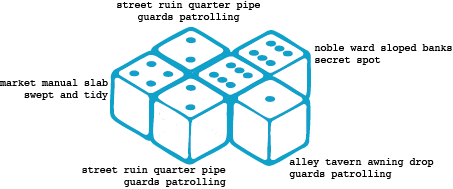
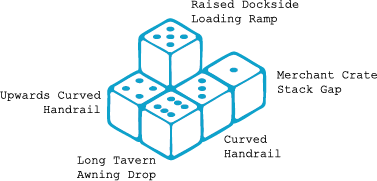
Add files via upload

Changed region(s): [[0.0, 0.0, 1.0, 1.0]]

diff --git a/index.html b/index.html
@@ -355,6 +355,23 @@
             gap: 10px;
         }
 
+        .ftype {
+            display: inline-block;
+            font-size: 9px;
+            font-weight: bold;
+            letter-spacing: 0.5px;
+            padding: 1px 5px;
+            border-radius: 3px;
+            white-space: nowrap;
+        }
+
+        .ftype.gap        { background: #fcc1d0; color: #8a1549; }
+        .ftype.grind      { background: #dbedf7; color: #0077a0; }
+        .ftype.nothing    { background: #dff2e1; color: #2a7a3a; }
+        .ftype.transition { background: #f5f0cc; color: #7a6010; }
+        .ftype.elevated   { background: #ede0f7; color: #6a1aaa; }
+        .ftype.longline   { background: #fde8d0; color: #a04010; }
+
         .note {
             font-size: 10px;
             color: #666;
@@ -736,7 +753,7 @@
 
             <div class="card yellow" id="dotricks">
                 <h2>Doing Tricks</h2>
-                <p>Before rolling, <strong>call your trick</strong>. State whether it's nollie or switch, a flip trick, grind, or combo. This determines which stats you use. Describe how you're performing the trick and on which feature.</p>
+                <p>Before rolling, <strong>call your trick</strong>. State whether it's fakie or switch, a flip trick, grind, or combo. This determines which stats you use. Describe how you're performing the trick and on which feature.</p>
                 <p>All tricks <strong>start with a single base d6</strong>, then add your stat dice.</p>
                 <ol>
                     <li><strong>Roll your dice pool.</strong> Start with a single d6. Add your stat dice from there.
@@ -774,7 +791,7 @@
                 <div class="die 1"><svg viewBox="0 0 18 18">
                         <circle cx="9" cy="9" r="1.8" class="pd" />
                     </svg></div> is a modifier die. Placed at the start it means <em>switch</em>. Placed at the
-                end it means <em>nollie</em>.</p>
+                end it means <em>fakie</em>.</p>
 
                 <div class="pre">
                     <p>
@@ -831,7 +848,7 @@
                             <circle cx="9" cy="9" r="1.8" class="pd" />
                         </svg>
                     </div>
-                    - nollie kickflip
+                    - fakie kickflip
                     </p>
                 </div>
 
@@ -1100,37 +1117,42 @@
                     streets and alleys. A spot is made up of a number of features you can do tricks on.</p>
 
                 <h3>Building a Spot</h3>
-                <p>Roll 3d6 +1 for each player and push them together on the table. Each die value
-                    determines the type of area
-                    and where it can sit.</p>
+                <p>Roll 3d6 +1 for each player and push them together on the table. Each die determines where it can sit and how it's connected to the features around it.</p>
                 <table>
                     <tr>
                         <th>Die</th>
-                        <th>Area Type</th>
+                        <th>Feature Type</th>
+                        <th>Note</th>
                     </tr>
                     <tr>
                         <td>1</td>
-                        <td>Back Alley - touches no more than 1 other area</td>
+                        <td><span class="ftype gap">Gap</span></td>
+                        <td>Touches no more than 1 other area</td>
                     </tr>
                     <tr>
                         <td>2</td>
-                        <td>Street Block - touches no more than 2 areas</td>
+                        <td><span class="ftype grind">Grind</span></td>
+                        <td>Touches no more than 2 areas</td>
                     </tr>
                     <tr>
                         <td>3</td>
-                        <td>Ward Junction - touches no more than 3 areas</td>
+                        <td><span class="ftype nothing">Nothing Special</span></td>
+                        <td>Touches no more than 3 areas</td>
                     </tr>
                     <tr>
                         <td>4</td>
-                        <td>Market Square - can touch up to 4 areas</td>
+                        <td><span class="ftype transition">Transition</span></td>
+                        <td>Can touch up to 4 areas</td>
                     </tr>
                     <tr>
                         <td>5</td>
-                        <td>City Gate - stack all 5s together, must touch at least 2 areas</td>
+                        <td><span class="ftype elevated">Elevated Spot</span></td>
+                        <td>Stack all 5s together, must touch at least 2 areas</td>
                     </tr>
                     <tr>
                         <td>6</td>
-                        <td>Noble Ward - merge all 6s in a line, can touch up to 4 areas</td>
+                        <td><span class="ftype longline">Long Line</span></td>
+                        <td>Merge all 6s in a line, can touch up to 4 areas</td>
                     </tr>
                 </table>
 
@@ -1161,32 +1183,32 @@
                             </tr>
                             <tr>
                                 <td>4</td>
-                                <td>Merchant Crate</td>
+                                <td>Merchant Crate Stack</td>
                                 <td>-</td>
                             </tr>
                             <tr>
                                 <td>5</td>
-                                <td>Cracked Flagstone Step</td>
+                                <td>Cracked Flagstone Steps</td>
                                 <td>-</td>
                             </tr>
                             <tr>
                                 <td>6</td>
-                                <td>Market Statue Block</td>
+                                <td>Market Fountain Ledge</td>
                                 <td>Technical</td>
                             </tr>
                             <tr>
                                 <td>7</td>
-                                <td>Tavern Bench</td>
+                                <td>Tavern Benches</td>
                                 <td>-</td>
                             </tr>
                             <tr>
                                 <td>8</td>
-                                <td>Manual Slab</td>
+                                <td>Marble Manual Slab</td>
                                 <td>-</td>
                             </tr>
                             <tr>
                                 <td>9</td>
-                                <td>Barrel Kicker</td>
+                                <td>Broken Cart Kicker</td>
                                 <td>-</td>
                             </tr>
                             <tr>
@@ -1196,7 +1218,7 @@
                             </tr>
                             <tr>
                                 <td>11</td>
-                                <td>Iron Rail</td>
+                                <td>Straight Iron Rail</td>
                                 <td>-</td>
                             </tr>
                             <tr>
@@ -1211,7 +1233,7 @@
                             </tr>
                             <tr>
                                 <td>14</td>
-                                <td>Smithy Ledge</td>
+                                <td>Blacksmith Ledges</td>
                                 <td>Technical</td>
                             </tr>
                         </table>
@@ -1231,12 +1253,12 @@
                             </tr>
                             <tr>
                                 <td>16</td>
-                                <td>8 Stair Set</td>
+                                <td>Ten Stair Set</td>
                                 <td>-</td>
                             </tr>
                             <tr>
                                 <td>17</td>
-                                <td>Aqueduct Bank</td>
+                                <td>Dockside Loading Ramp</td>
                                 <td>-</td>
                             </tr>
                             <tr>
@@ -1251,33 +1273,33 @@
                             </tr>
                             <tr>
                                 <td>20</td>
-                                <td>30ft Long Tower Handrail</td>
-                                <td>Gnarly &amp; Technical</td>
+                                <td>Curved Handrail</td>
+                                <td>Technical</td>
                             </tr>
                             <tr>
                                 <td>21</td>
-                                <td>18ft Roof Drop</td>
-                                <td>-</td>
+                                <td>Two Storey Roof Drop</td>
+                                <td>Gnarly</td>
                             </tr>
                             <tr>
                                 <td>22-24</td>
-                                <td>City Gate Triple Kinked Rail</td>
-                                <td>Double Technical</td>
+                                <td>City Gate Kinked Rail</td>
+                                <td>Gnarly &amp; Technical</td>
                             </tr>
                             <tr>
                                 <td>25-27</td>
-                                <td>Temple Row 48 Stair</td>
+                                <td>Temple Stair Flat Stair</td>
                                 <td>Double Gnarly</td>
                             </tr>
                             <tr>
                                 <td>28-30</td>
-                                <td>The Warrens Gap</td>
+                                <td>Park Grass Gap</td>
                                 <td>-</td>
                             </tr>
                             <tr>
                                 <td>31-33</td>
-                                <td>Pale Ward Gate Rail</td>
-                                <td>Technical</td>
+                                <td>Noble's Double Kinked Rail</td>
+                                <td>Double Technical</td>
                             </tr>
                             <tr>
                                 <td>34+</td>
@@ -1383,7 +1405,7 @@
                 <h3>Visual Example</h3>
                 <img src="spot-ex.png" alt="six sided dice lined up to form a cluster">
                 <blockquote>
-                    <p><strong>Lil' side note: Seeing the Spot as a place.</strong> When the dice hit the table you're
+                    <p><strong>Seeing the Spot as a place.</strong> When the dice hit the table you're
                         not looking at a stat block. You're looking at a street corner, a market approach, a ruined ward
                         alley. Read it like a skater would: where's the entry, where's the exit, what's the natural
                         line? A Barrel Kicker next to a Stone Hubba next to a Gutter Gap isn't three separate features,
@@ -1395,7 +1417,7 @@
 
                     <p>Describe the place first, then how you're hucking your trick. "There's a long marble ledge
                         running the full length of a shuttered guild hall over a gutter gap along the docks road, I'm
-                        going to nollie noseblunt the ledge, heelflip out over the gap."</p>
+                        going to fakie noseblunt the ledge, heelflip out over the gap."</p>
 
                 </blockquote>
             </div>
@@ -1721,7 +1743,7 @@
                     </tr>
                     <tr>
                         <td>4</td>
-                        <td>Nollie shuv, casual, almost dismissive.</td>
+                        <td>fakie shuv, casual, almost dismissive.</td>
                     </tr>
                     <tr>
                         <td>5</td>
@@ -1757,7 +1779,7 @@
                     </tr>
                     <tr>
                         <td>13</td>
-                        <td>Nollie big spin, done so smooth it looks like warm up.</td>
+                        <td>fakie big spin, done so smooth it looks like warm up.</td>
                     </tr>
                     <tr>
                         <td>14</td>
@@ -1882,7 +1904,7 @@
                 <li><strong>d8</strong> - specific trick from that list. *(or d4/d20)</li>
                 <li><strong>d4</strong> - on a 4, the trick is modified
                     <ul>
-                        <li>odd d6 = switch, even d6 = nollie.</li>
+                        <li>odd d6 = switch, even d6 = fakie.</li>
                         <li>On 1-3, ignore the d4.</li>
                     </ul>
                 </li>
@@ -1970,7 +1992,7 @@
                 </div>
 
                 <div class="col cputable2">
-                    <h3>Switch / Nollie</h3>
+                    <h3>Switch / fakie</h3>
                     <p class="note">
                         Only applies when d4 = 4.
                     </p>
@@ -1985,7 +2007,7 @@
                         </tr>
                         <tr>
                             <td>Even</td>
-                            <td>Nollie</td>
+                            <td>fakie</td>
                         </tr>
                     </table>
                 </div>
